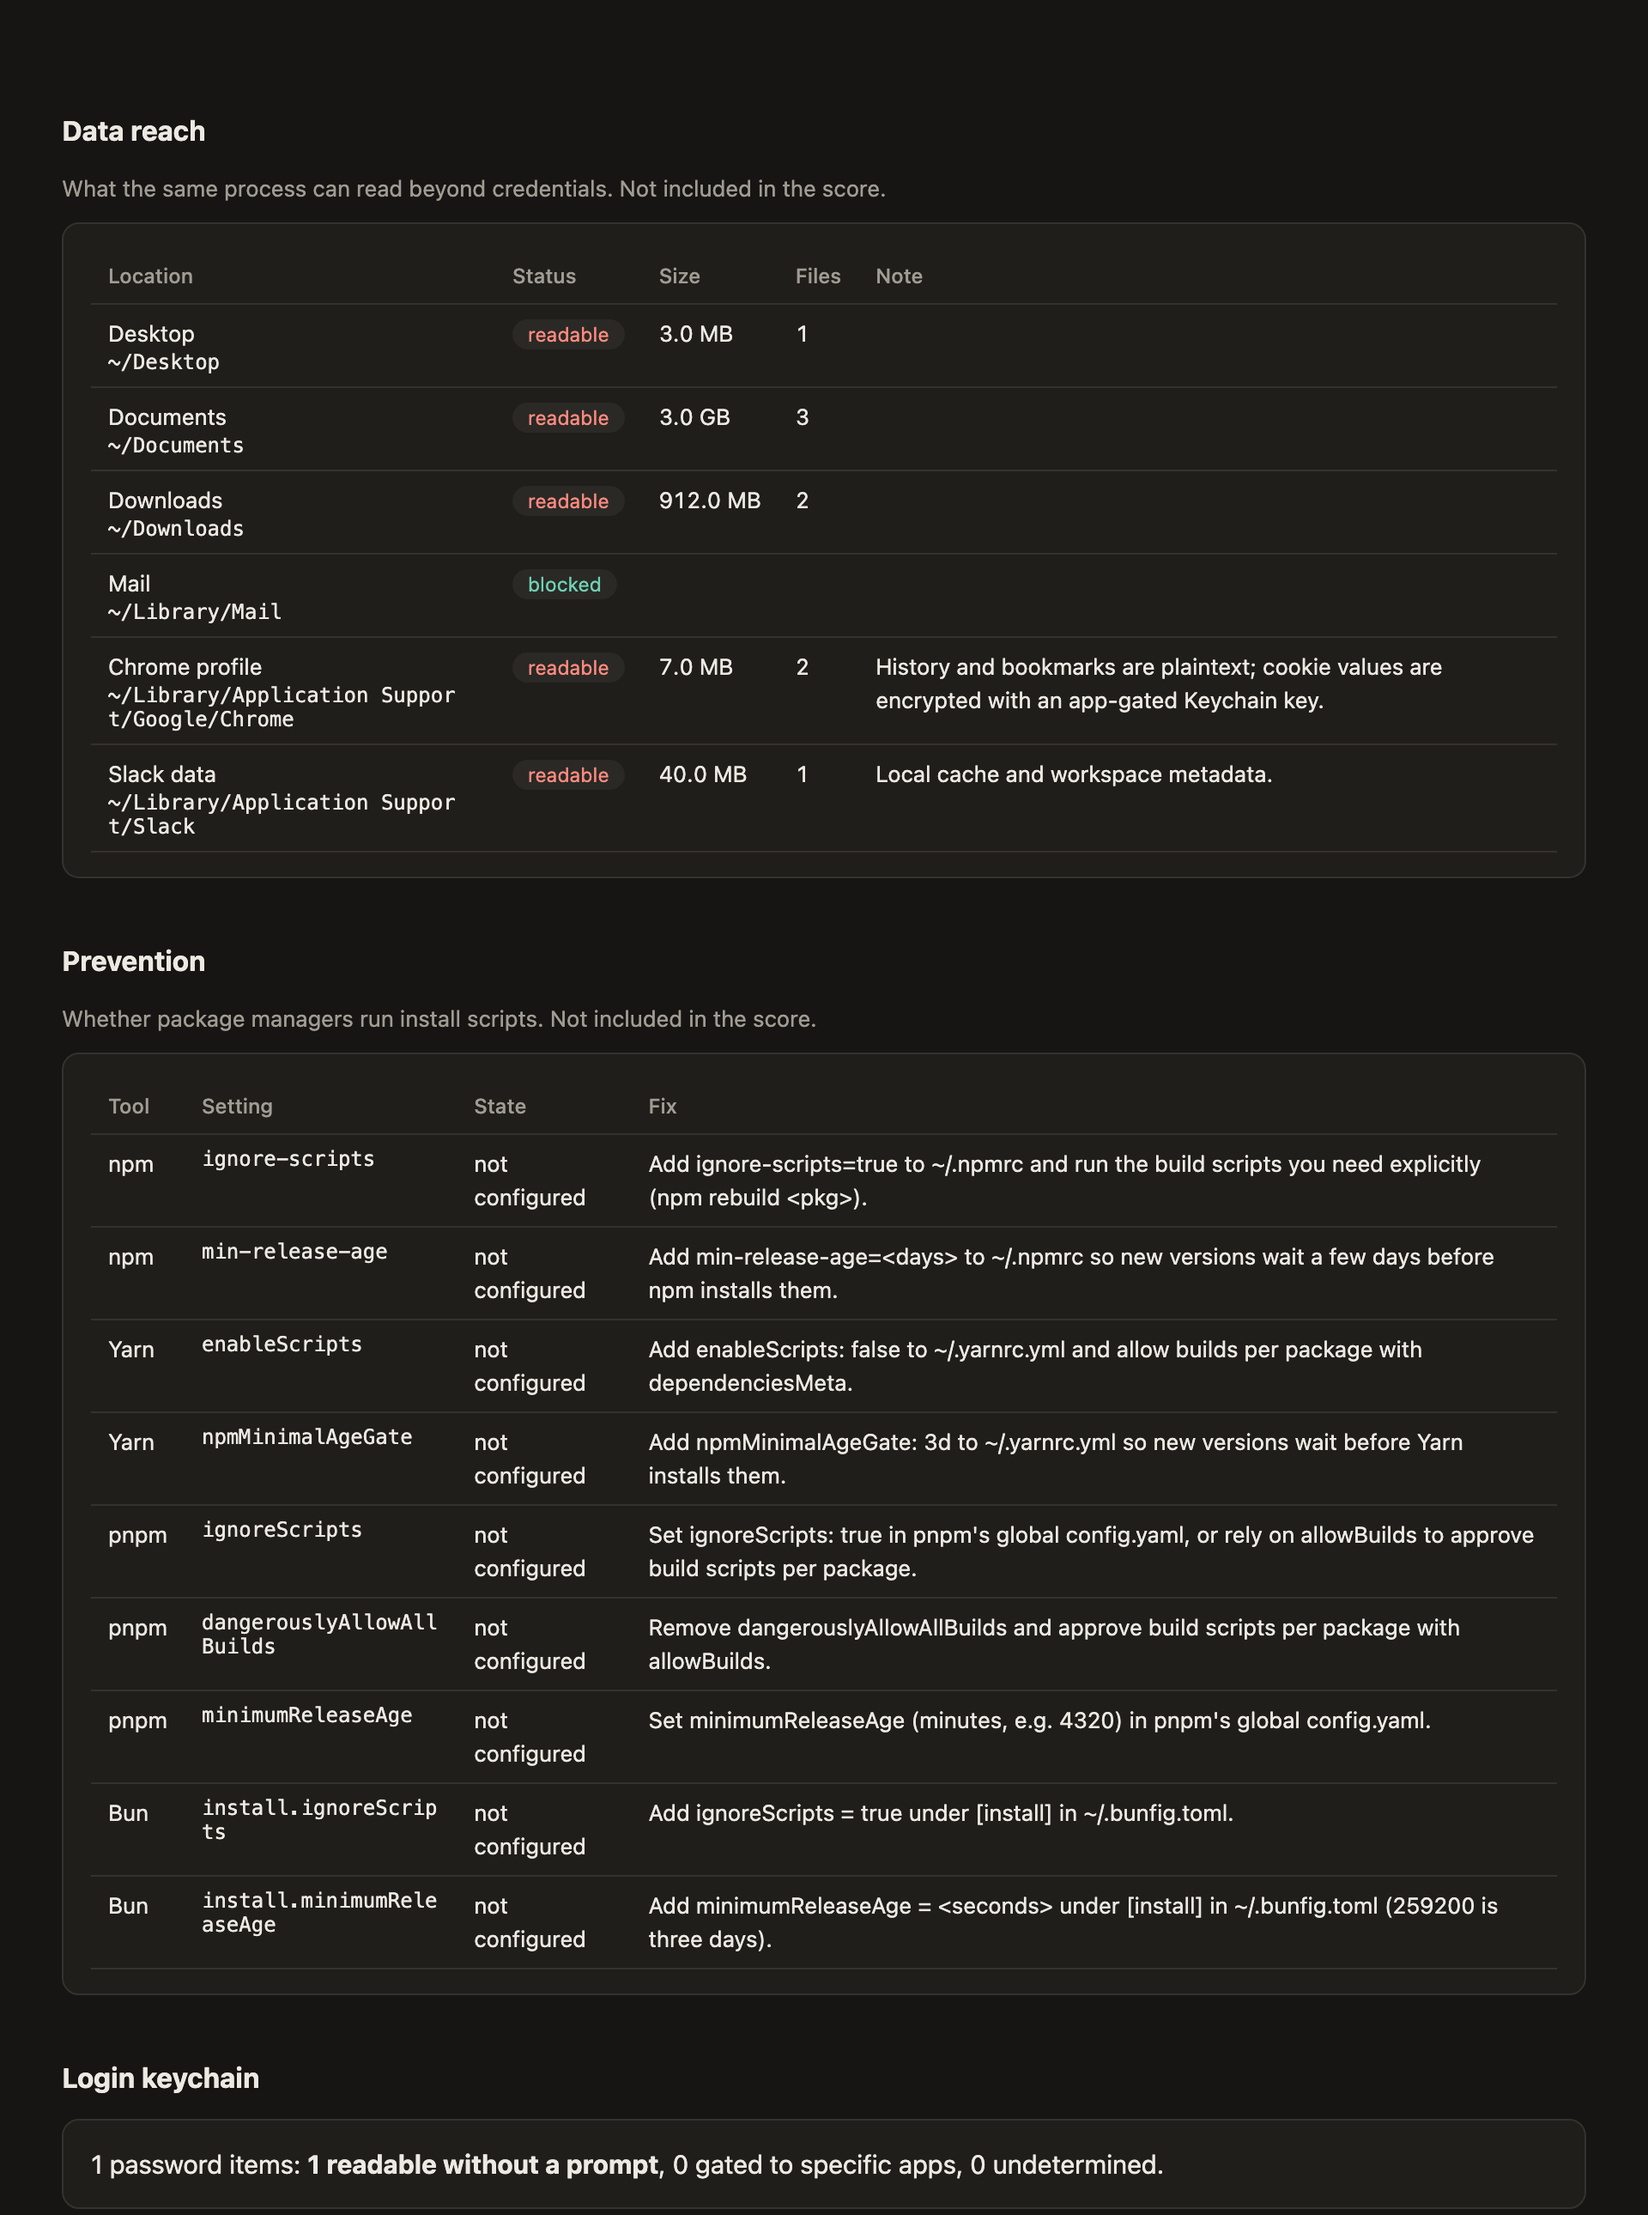
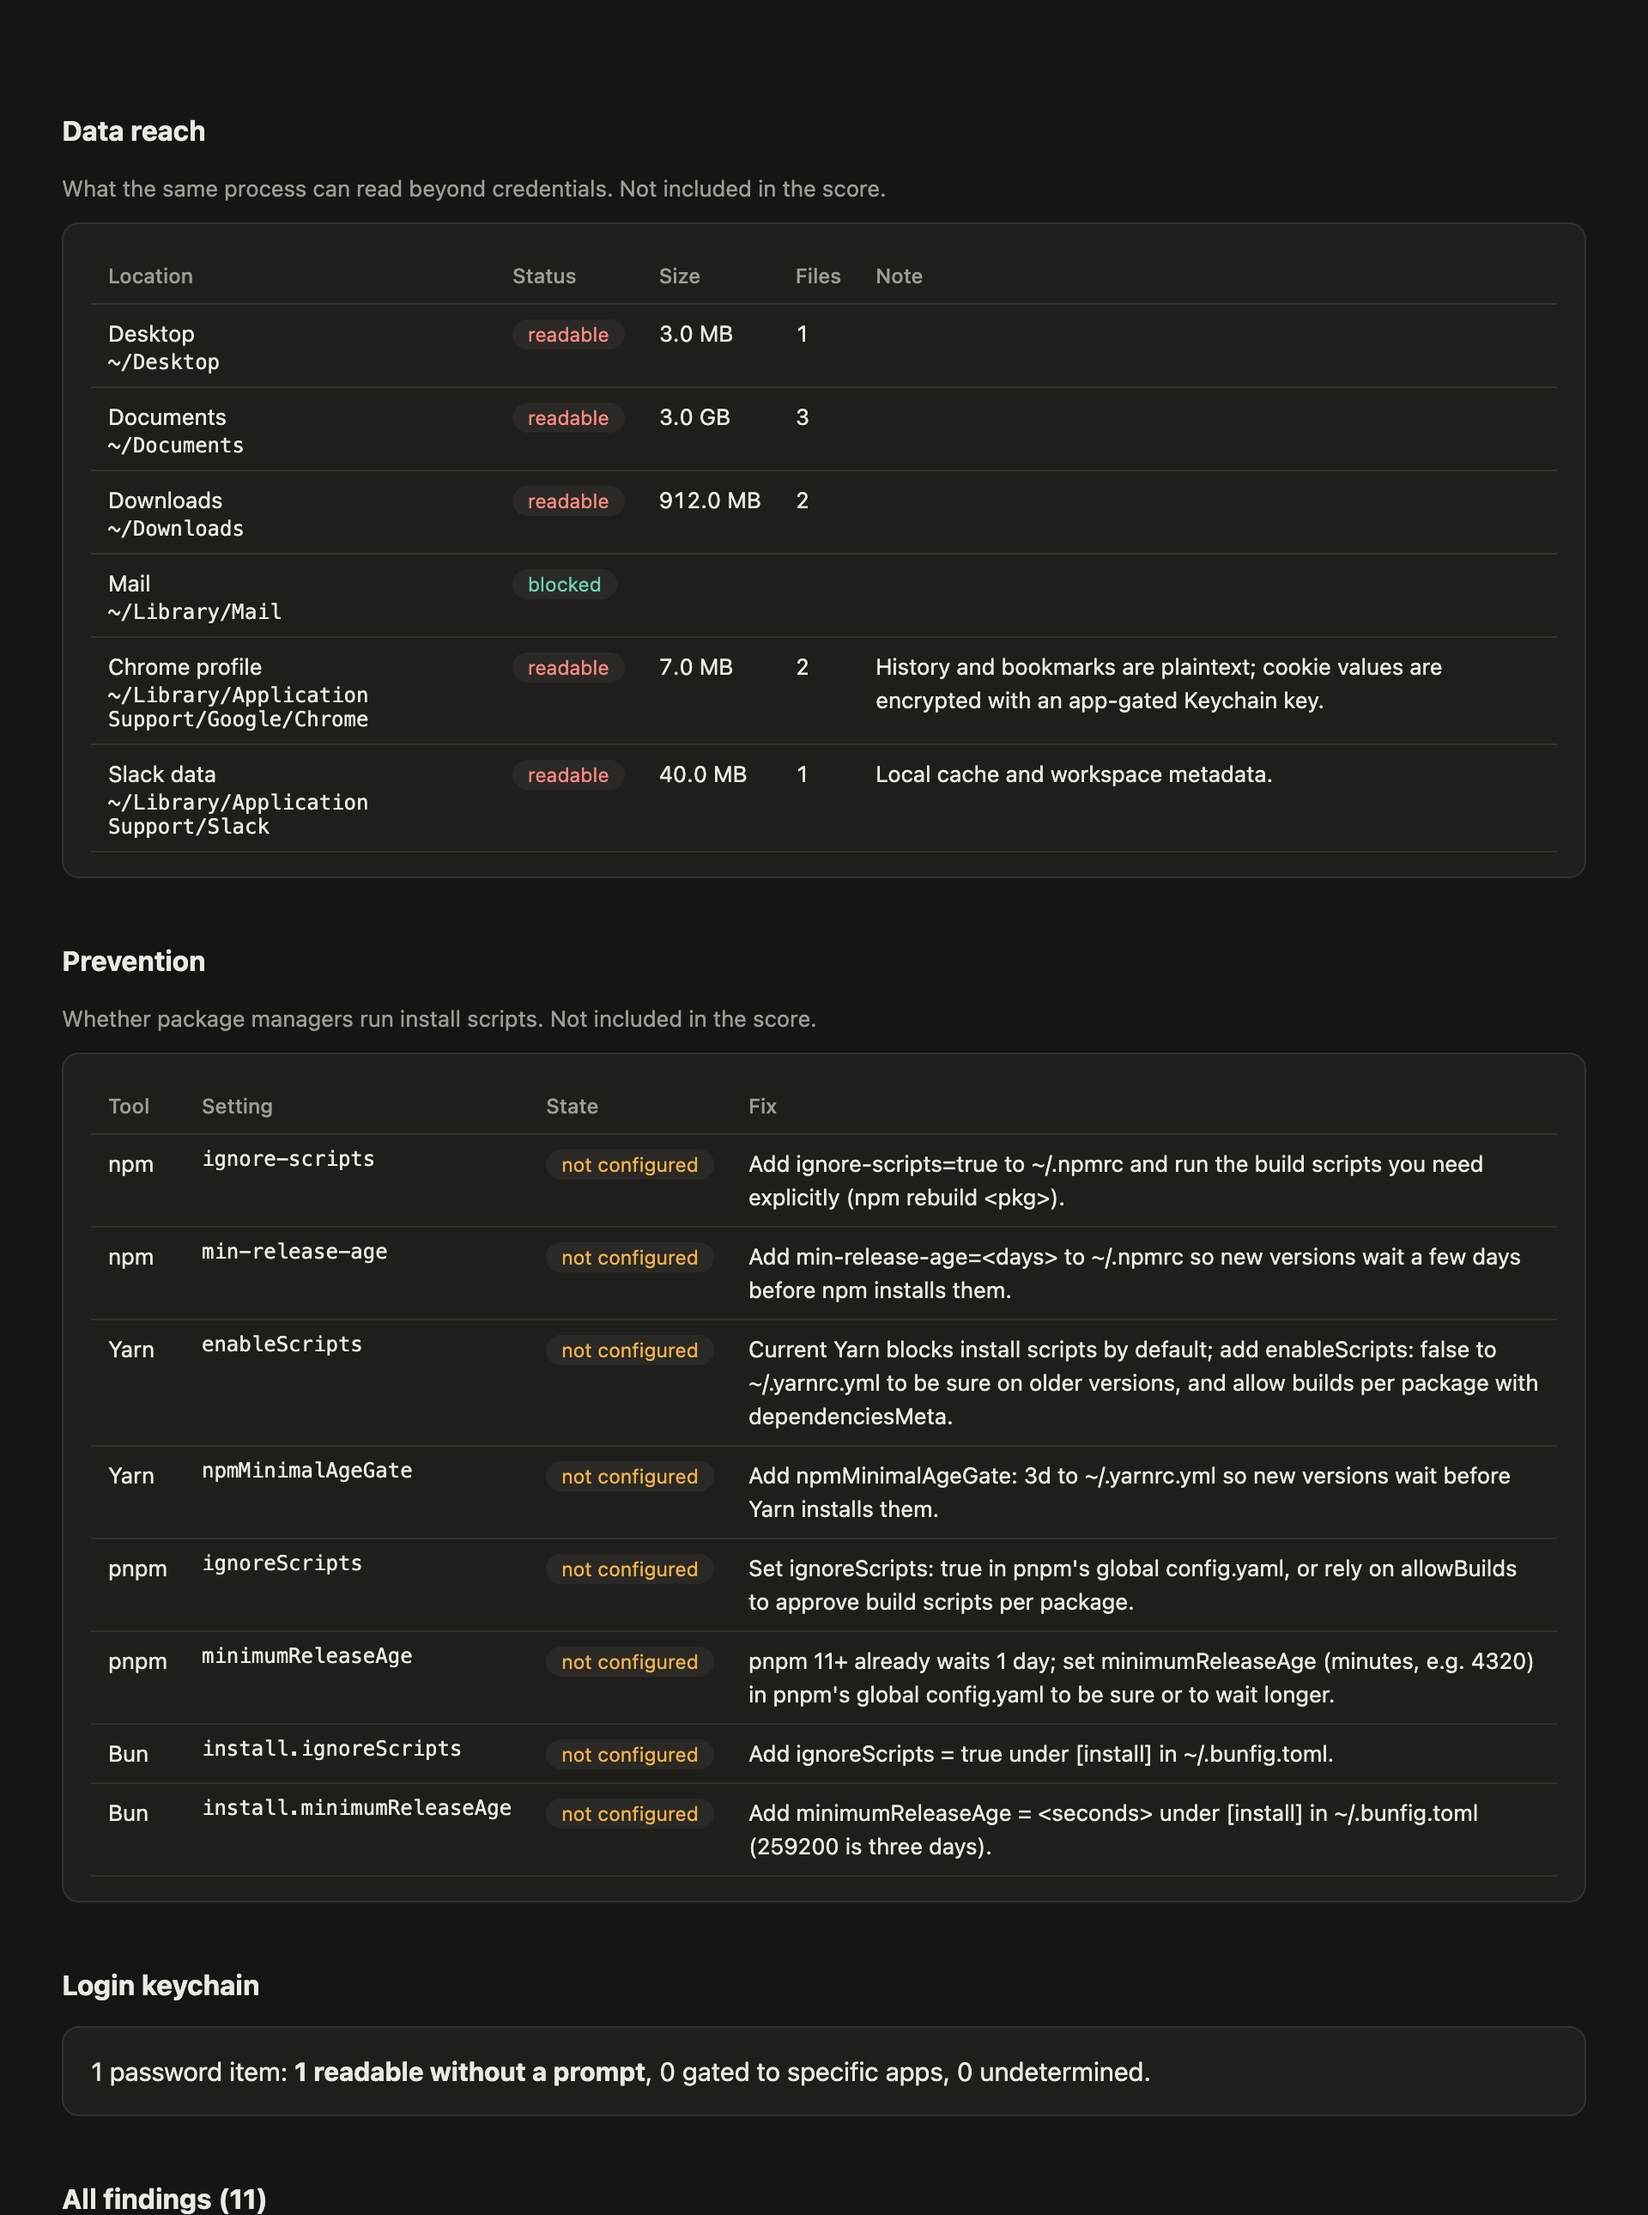
README: screenshots and terminal sample show the new summary and report copy; document -version

diff --git a/README.md b/README.md
@@ -23,7 +23,7 @@ What else the same process can read (not scored), whether your package managers 
 Running it with no flags prints a summary in the terminal:
 
 ```text
-Exposure score: 68.2  (-10.0 since 2026-10-12 09:30 UTC)
+Exposure score (lower is better): 68.2  (-10.0 since 2026-10-12 09:30 UTC)
 Findings: 11 · credentials: 11 · worm vectors usable without a prompt: 4
 Launched from: iTerm.app (-zsh < iTerm2)
 Full Disk Access: no
@@ -41,7 +41,9 @@ Fix first:
        Fix: Publish with npm trusted publishing (OIDC) so no token lives on disk; if you must keep one, make it granular, read-only, and short-lived. Set ignore-scripts=true.
   ...
 
-Changes since last run: 1 resolved, 1 rotated
+Changes since last run:
+  resolved: API keys in an AI tool or MCP config (~/.cursor/mcp.json)
+  rotated: npm auth token (~/.npmrc)
 ```
 
 ## What it checks
@@ -100,10 +102,11 @@ Run it from the terminal (or IDE terminal) you actually install packages from. D
 | `-json`          | Print the snapshot as JSON instead of the summary                              |
 | `-probe-folders` | Also measure TCC-protected folders such as Documents (may show a macOS prompt) |
 | `-skip-keychain` | Skip the login Keychain access-list check                                      |
+| `-version`       | Print the version and exit                                                     |
 | `-roots a,b`     | Directories for the `.env` sweep (default: your home); `~` expands, a missing one exits 2 |
 | `-max-depth n`   | Depth limit for the `.env` sweep (default 5)                                   |
 
-Exit codes: `0` complete run; `1` report produced but a collector failed, timed out or was partial (or an output was withheld by the leak check); `2` usage error or unusable state directory.
+Exit codes: `0` complete run; `1` report produced but a collector failed, timed out or was partial (or an output was withheld by the leak check); `2` usage error or unusable state directory. `-h` and `-version` exit `0`.
 
 ## Safety guarantees
 
